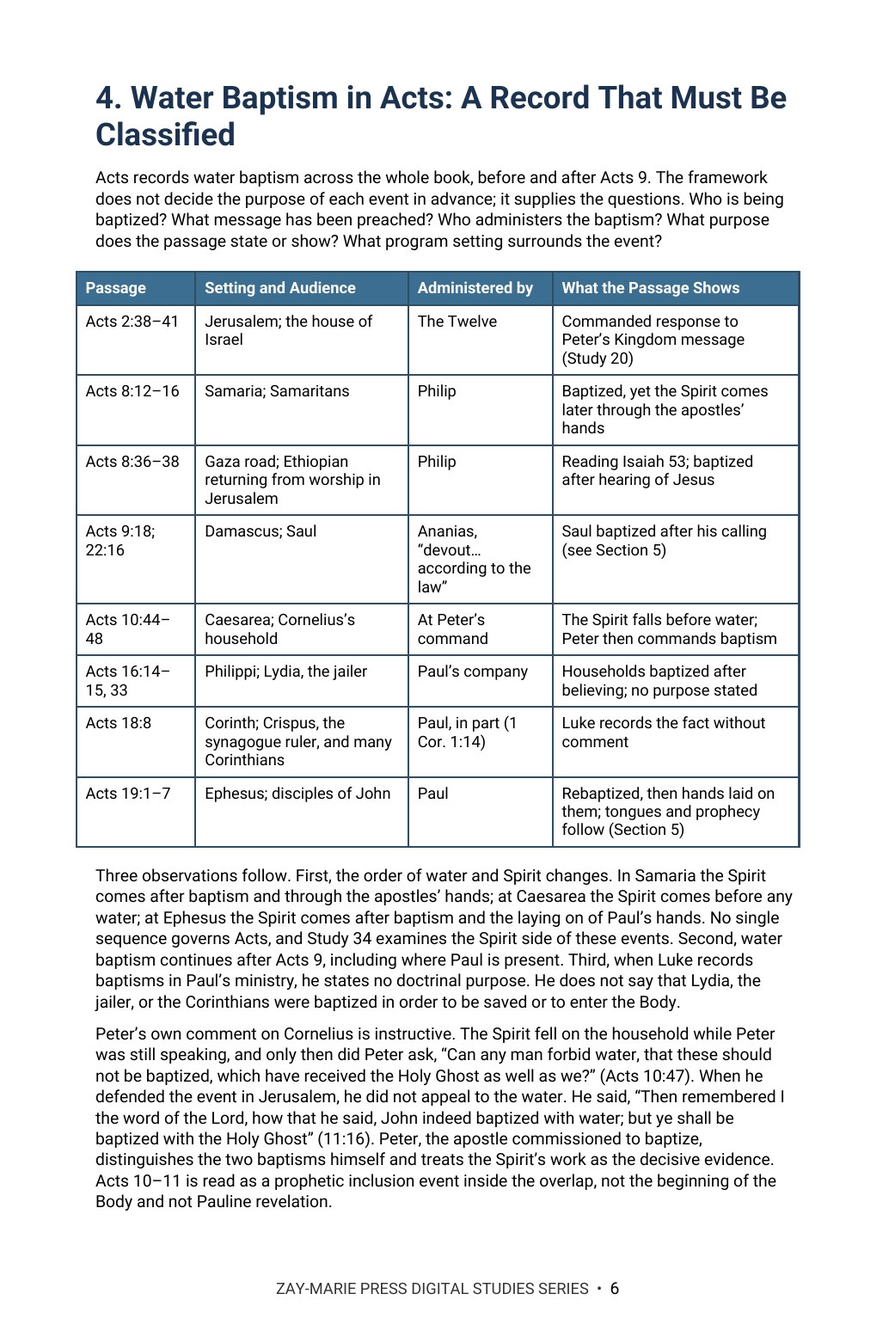
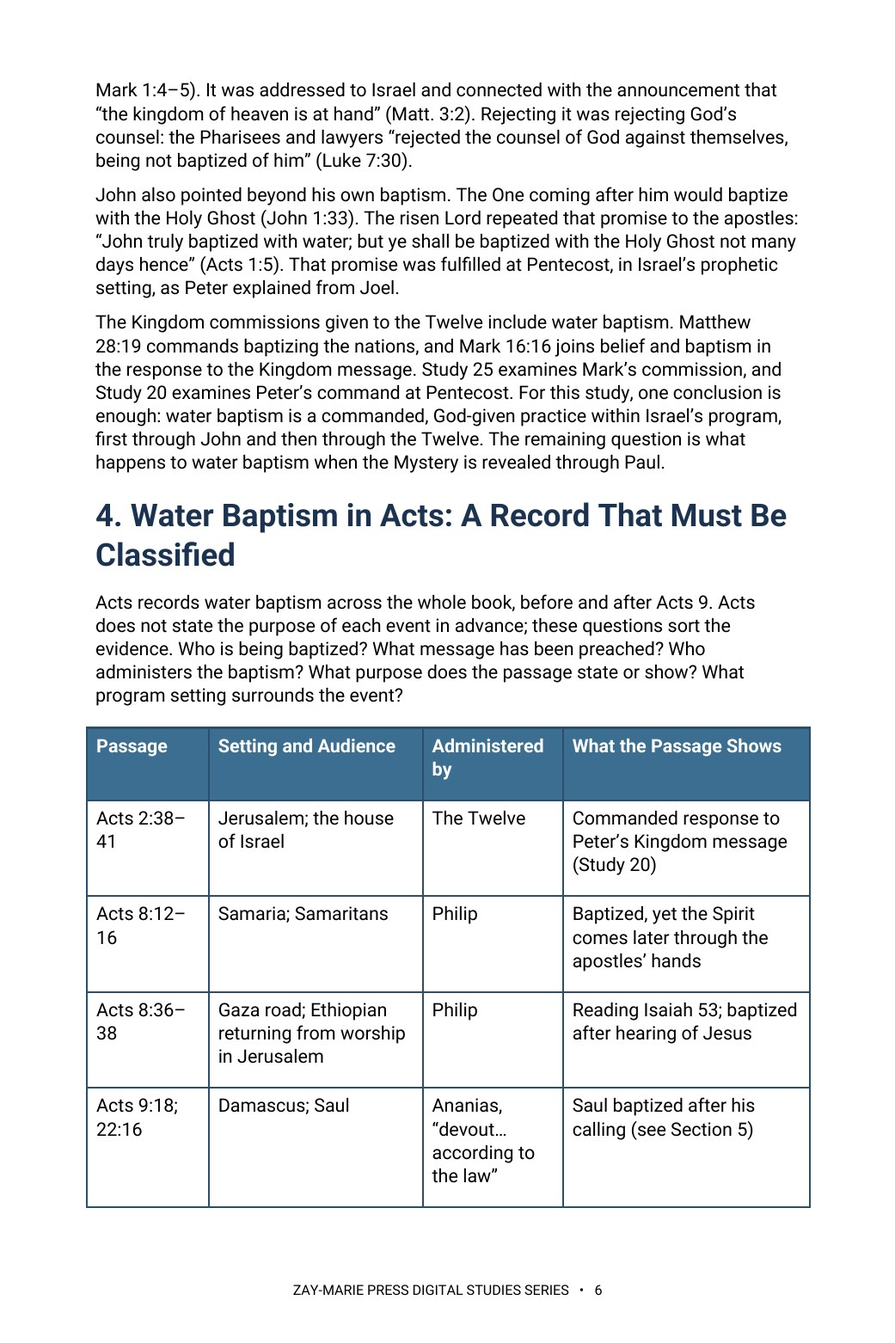
Study 42: rebuild in Roboto at 10 pt (17 pages), Rules 8/11/18, previews 2/3/6; trackers v1.74/v1.168
Claude-Session: https://claude.ai/code/session_01KcENxFzE91mCRyTPWhcwnE

Changed region(s): [[0.0615, 0.0615, 0.9222, 0.9219], [0.3074, 0.9526, 0.6763, 0.9834]]

diff --git a/study-42-one-baptism.html b/study-42-one-baptism.html
@@ -1,5 +1,5 @@
 <!doctype html>
 <html lang="en"><head><meta charset="utf-8"><meta name="viewport" content="width=device-width,initial-scale=1"><title>One Baptism | Zay-Marie Press</title><meta name="description" content="What is the one baptism of Ephesians 4:5? Define baptism from Scripture, classify every water baptism in Acts, and trace Paul’s teaching on Spirit baptism into the one Body. Preview Study 42 from Zay-Marie Press."><link rel="stylesheet" href="styles.css?v=20260921-4"><link rel="icon" type="image/png" href="assets/zay-marie-press-favicon.png"><style>
 .study-detail-page{background:#fff;color:#252525}.detail-hero{background:linear-gradient(135deg,#f8f5ec,#e3ece2);padding:58px 0}.detail-hero-grid{display:grid;grid-template-columns:minmax(250px,.72fr) minmax(0,1.28fr);gap:58px;align-items:center}.detail-cover{max-width:390px;margin:auto}.detail-cover img{display:block;width:100%;height:auto;box-shadow:0 14px 36px rgba(8,45,69,.18)}.detail-hero h1{font-size:clamp(2.7rem,5vw,4.7rem);line-height:1.02;margin:8px 0 10px;color:#143823}.detail-subtitle{font-family:Georgia,serif;font-size:1.35rem;font-weight:700;color:#082d45;margin:0 0 7px}.detail-kicker{font-family:Georgia,serif;font-style:italic;font-size:1.05rem;color:#4a4a44;margin:0 0 22px}.detail-copy{font-size:1.08rem;line-height:1.65;max-width:760px}.detail-buyline{display:flex;align-items:center;gap:18px;flex-wrap:wrap;margin-top:25px}.detail-price{font-family:Georgia,serif;font-size:2rem;font-weight:700;color:#143823}.detail-format,.preview-card .page-no{font-family:Arial,sans-serif;font-size:.76rem;font-weight:700;letter-spacing:.1em;text-transform:uppercase;color:#176b3a}.detail-button{display:inline-block;background:#176b3a;color:#fff;padding:13px 22px;font-family:Arial,sans-serif;font-size:.8rem;font-weight:700;letter-spacing:.07em;text-transform:uppercase}.detail-button.pending{opacity:.72;cursor:default}.detail-section{padding:66px 0}.detail-section.soft{background:#f6f7f2}.detail-section.cream{background:#faf8f2}.detail-section h2{color:#143823;margin:6px 0 18px;font-size:clamp(2rem,3.4vw,3rem)}.detail-section .lead{max-width:920px;font-size:1.1rem;line-height:1.62}.study-distinction{max-width:920px;margin-top:28px;margin-bottom:28px;padding:26px 28px;background:#fff;border:1px solid #d8d1bf;border-left:4px solid #b8871c}.study-distinction h3{margin:0 0 10px;color:#143823}.study-distinction p{margin:0 0 14px;line-height:1.62}.study-distinction a{font-family:Arial,sans-serif;font-weight:700;color:#176b3a;text-decoration:none}.study-points{display:grid;grid-template-columns:repeat(3,1fr);gap:18px;margin-top:28px;margin-bottom:28px}.study-point,.scripture-card,.preview-card,.include-item{background:#fff;border:1px solid var(--line);text-align:left}.study-point{border-top:3px solid #176b3a;padding:22px}.study-point h3{color:#143823;margin:0 0 8px;font-size:1.2rem}.study-point p,.scripture-card p,.preview-card p,.include-item p{margin:0;line-height:1.55}.scripture-grid{display:grid;grid-template-columns:repeat(4,1fr);gap:14px;margin-top:24px;margin-bottom:24px}.scripture-card{padding:22px 20px;color:#143823}.scripture-card h3{margin:0 0 9px;font-family:Georgia,serif;font-size:1rem;line-height:1.35}.scripture-card p{font-size:.94rem;color:#45453f}.excerpt{max-width:900px;margin:28px auto;border-left:4px solid #b8871c;padding:10px 0 10px 28px}.excerpt blockquote{font-family:Georgia,serif;font-size:clamp(1.45rem,2.5vw,2rem);line-height:1.45;color:#143823;margin:0 0 16px}.excerpt p{line-height:1.6;margin:0}.preview-grid{display:grid;grid-template-columns:repeat(2,1fr);gap:20px;margin-top:28px;margin-bottom:28px}.preview-card{padding:18px;min-height:210px;box-shadow:0 7px 20px rgba(20,40,25,.05)}.preview-image-link{display:block;margin:0 0 18px}.preview-image-link img{display:block;width:100%;height:auto;border:1px solid #d8d1bf;box-shadow:0 8px 22px rgba(20,40,25,.1);transition:transform .18s ease,box-shadow .18s ease}.preview-image-link:hover img{transform:translateY(-2px);box-shadow:0 11px 28px rgba(20,40,25,.16)}.preview-card h3{color:#143823;margin:8px 0 10px}.preview-instruction{margin:10px 0 0;font-family:Arial,sans-serif;font-size:.78rem;letter-spacing:.04em;color:#5b5b55}.includes-grid{display:grid;grid-template-columns:repeat(4,1fr);gap:14px;margin-top:26px}.include-item{padding:22px 20px;color:#143823}.include-item h3{margin:0 0 9px;font-family:Arial,sans-serif;font-size:.86rem;line-height:1.35;letter-spacing:.02em}.include-item p{font-size:.94rem;color:#45453f}.final-buy{background:#082d45;color:#fff;border-top:4px solid #b8871c;padding:42px 48px;display:grid;grid-template-columns:1fr auto;gap:36px;align-items:center}.final-buy .eyebrow,.final-buy h2,.final-buy .detail-price{color:#fff}.final-buy h2{margin:7px 0 6px}.final-buy p{margin:0}.final-offer{text-align:center}.back-link{display:inline-block;margin-top:18px;color:#143823;font-family:Arial,sans-serif;font-weight:700;text-decoration:none}.preview-lightbox{position:fixed;inset:0;z-index:10000;display:none;align-items:flex-start;justify-content:center;background:rgba(8,22,16,.88);padding:24px;overflow:auto}.preview-lightbox.open{display:flex}.preview-lightbox img{display:block;width:auto;height:auto;max-width:none;box-shadow:0 18px 55px rgba(0,0,0,.4);background:#fff}.preview-lightbox-close{position:fixed;top:18px;right:24px;z-index:10001;width:46px;height:46px;border:1px solid rgba(255,255,255,.65);border-radius:50%;background:rgba(0,0,0,.55);color:#fff;font:32px/1 Arial,sans-serif;cursor:pointer}@media(max-width:900px){.detail-hero-grid{grid-template-columns:1fr;gap:34px}.detail-cover{max-width:330px}.study-points{grid-template-columns:repeat(2,1fr)}.scripture-grid,.includes-grid{grid-template-columns:repeat(2,1fr)}.preview-grid,.final-buy{grid-template-columns:1fr}.final-offer{text-align:left}}@media(max-width:560px){.detail-hero{padding:42px 0}.detail-section{padding:50px 0}.study-points,.scripture-grid,.includes-grid{grid-template-columns:1fr}.final-buy{padding:32px 24px}.detail-buyline{align-items:flex-start;flex-direction:column;gap:8px}.preview-lightbox{padding:58px 10px 24px}.preview-lightbox img{width:100%;max-width:100%;height:auto}} .detail-hero h1{font-size:clamp(2.1rem,4.2vw,3.7rem);line-height:1.08}</style></head><body class="study-detail-page">
-<header class="site-header"><div class="wrap nav"><a class="logo" href="index.html" aria-label="Zay-Marie Press home"><img src="assets/zay-marie-press-logo-hq.png" alt="Zay-Marie Press" width="420" height="238"></a><button class="menu-toggle" type="button" aria-expanded="false" aria-controls="primary-nav">MENU</button><nav aria-label="Primary navigation" class="primary-nav" id="primary-nav"><a href="index.html">HOME</a><a href="books.html">BOOKS</a><a href="series.html">SERIES</a><a class="active" aria-current="page" href="digital-studies.html">DIGITAL STUDIES</a><a href="biblical-hermeneutics-course.html">COURSE</a><a href="about.html">ABOUT</a><a href="resources.html">RESOURCES</a><a href="contact.html">CONTACT</a></nav></div></header><main><section class="detail-hero"><div class="wrap detail-hero-grid"><div class="detail-cover"><picture><source srcset="assets/study-42-cover.webp" type="image/webp"><img src="assets/study-42-cover.jpg" alt="One Baptism — Study 42 cover"></picture></div><div><div class="eyebrow">STUDY 42 · DIGITAL STUDY</div><h1>One Baptism</h1><p class="detail-subtitle">Water Baptism, Spirit Baptism, and the Body of Christ</p><p class="detail-kicker">A Biblical Examination of Baptism’s Meaning, the Water Baptisms in Acts, and the Baptism Paul Teaches the Body</p><p class="detail-copy">Paul writes that there is “one baptism.” Yet Scripture records John’s baptism, the baptism commanded by the Twelve, baptisms during Paul’s own ministry, a baptism by one Spirit into one body, and a baptism unto Moses in which no one got wet.</p><p class="detail-copy">This study defines baptism from Scripture, classifies every water baptism recorded in Acts, and follows Paul’s own teaching to the one baptism that places every believer into the Body of Christ.</p><div class="detail-buyline"><span class="detail-price">$5.99</span><span class="detail-format">Digital PDF · 16 Pages</span><span class="detail-button pending" aria-disabled="true">Checkout Coming Soon</span></div></div></div></section><section class="detail-section"><div class="wrap"><div class="eyebrow">ABOUT THIS STUDY</div><h2>Many Baptisms, One Baptism</h2><p class="lead">Baptism in Scripture means identification, and the element varies: water, the Spirit, suffering, even a cloud and a sea. Reading each baptism by its agent, element, and result removes most of the contradictions readers find when every use of the word is assumed to mean the same act.</p><p class="lead">Water baptism belongs to Israel’s program, from priestly washing to John’s baptism and the commission of the Twelve, and it continues throughout Acts. Paul baptized a few people during the overlap, yet wrote that Christ “sent me not to baptize.” In his letters, the Body’s baptism is the Spirit’s work of placing every believer into Christ.</p><p class="lead">This is not a study of Peter’s Pentecost command in isolation, which Study 20 reads in its own audience and setting, nor of Mark 16’s sign commission joining belief and baptism, which Study 25 examines on its own terms, nor of the Spirit’s repeated fillings in Acts, which Study 34 distinguishes from a once-for-all baptism. Its task is broader: to classify every baptism Scripture names — by agent, element, and result — and to identify which one alone places a believer into the Body.</p><div class="study-distinction"><h3>How These Studies Relate</h3><p>Study 42 defines baptism from Scripture and identifies from Paul’s letters the one baptism that places believers into the Body of Christ.</p><p><a href="study-20-understanding-acts-2-38.html">Study 20 — Understanding Acts 2:38</a> Read Peter’s Pentecost command to Israel in detail; this study classifies it among the many baptisms Scripture describes.</p><p><a href="study-25-the-signs-that-followed.html">Study 25 — The Signs That Followed</a> Examine the Kingdom commission that joins belief and baptism in Mark 16, which this study distinguishes from Paul’s commission.</p><p><a href="study-34-filled-again.html">Study 34 — Filled Again</a> Follow the Spirit’s fillings in Acts, which this study distinguishes from the Spirit’s once-for-all baptism into the one Body.</p><p class="connection-guide-link"><a href="study-connections.html#study-42">Explore the full connection guide for Study 42 →</a></p></div></div></section><section class="detail-section soft"><div class="wrap"><div class="eyebrow">WHAT YOU’LL STUDY</div><h2>Let Each Baptism Be Read on Its Own Terms</h2><div class="study-points"><div class="study-point"><h3>What “Baptize” Means</h3><p>See why baptism means identification, including baptisms in which no water touches anyone.</p></div><div class="study-point"><h3>Water in Israel’s Program</h3><p>Trace priestly washing, the prophets’ promised cleansing, and John’s stated purpose for his baptism.</p></div><div class="study-point"><h3>Every Baptism in Acts</h3><p>Classify each recorded water baptism by audience, administrator, order, and stated purpose.</p></div><div class="study-point"><h3>The Difficult Texts</h3><p>Work through Acts 22:16, Acts 19:1–7, and Peter’s own comment on Cornelius in Acts 11:16.</p></div><div class="study-point"><h3>Not Sent to Baptize</h3><p>Read 1 Corinthians 1:13–17, and see why Paul baptized a few during the overlap without making it part of his commission.</p></div><div class="study-point"><h3>The One Baptism</h3><p>Follow 1 Corinthians 12:13, Galatians 3:27, Romans 6, and Colossians 2 to Ephesians 4:5.</p></div></div></div></section><section class="detail-section cream"><div class="wrap"><div class="eyebrow">KEY SCRIPTURES</div><h2>Examine the Passages for Yourself</h2><div class="scripture-grid"><div class="scripture-card"><h3>1 Corinthians 10:1–2</h3><p>Israel was baptized unto Moses in the cloud and in the sea while crossing on dry ground.</p></div><div class="scripture-card"><h3>John 1:31</h3><p>John baptized with water so that Messiah would be made manifest to Israel.</p></div><div class="scripture-card"><h3>Acts 11:16</h3><p>Peter remembers that John baptized with water, but they would be baptized with the Holy Ghost.</p></div><div class="scripture-card"><h3>Acts 22:16</h3><p>Ananias’s instruction at Paul’s calling, read in its own setting.</p></div><div class="scripture-card"><h3>1 Corinthians 1:17</h3><p>“Christ sent me not to baptize, but to preach the gospel.”</p></div><div class="scripture-card"><h3>1 Corinthians 12:13</h3><p>By one Spirit every believer is baptized into one body.</p></div><div class="scripture-card"><h3>Romans 6:3–4; Colossians 2:11–12</h3><p>Buried and raised with Christ through the operation of God, with a circumcision made without hands.</p></div><div class="scripture-card"><h3>Ephesians 4:4–6</h3><p>One body, one Spirit, one Lord, one faith, one baptism.</p></div></div></div></section><section class="detail-section"><div class="wrap"><div class="eyebrow">FROM THE STUDY</div><h2>The Baptism That Makes the Body One</h2><div class="excerpt"><blockquote>“Paul does not write ‘one water baptism and one Spirit baptism.’ He writes ‘one baptism.’”</blockquote><p>Water baptism was commanded in Israel’s program and continued throughout Acts. The baptism Paul names among the unities of the Body is the one that makes the Body one: the Spirit’s placement of every believer into Christ.</p></div></div></section><section class="detail-section soft"><div class="wrap"><div class="eyebrow">A LOOK INSIDE</div><h2>Preview the Study Before You Purchase</h2><p class="preview-instruction">Click any page to enlarge it for reading.</p><div class="preview-grid"><div class="preview-card"><a class="preview-image-link" data-preview-lightbox href="assets/study-42-page-2.jpg"><img src="assets/study-42-page-2.jpg" alt="Study 42 page 2: table of contents"></a><div class="page-no">Page 2</div><h3>Table of Contents</h3><p>See the study’s full structure and scope at a glance.</p></div><div class="preview-card"><a class="preview-image-link" data-preview-lightbox href="assets/study-42-page-3.jpg"><img src="assets/study-42-page-3.jpg" alt="Study 42 page 3: what you will learn, study goal, and study outline"></a><div class="page-no">Page 3</div><h3>What You Will Learn</h3><p>See the study’s goal, outline, and the question it sets out to answer.</p></div><div class="preview-card"><a class="preview-image-link" data-preview-lightbox href="assets/study-42-page-6.jpg"><img src="assets/study-42-page-6.jpg" alt="Study 42 page 6: water baptism in Acts, with the table that classifies each recorded baptism"></a><div class="page-no">Page 6</div><h3>Water Baptism in Acts</h3><p>See how the study classifies each recorded water baptism by setting, audience, and administrator.</p></div></div></div></section><section class="detail-section"><div class="wrap"><div class="eyebrow">WHAT’S INCLUDED</div><h2>A Focused Study Built for<br>Understanding and Teaching</h2><div class="includes-grid"><div class="include-item"><h3>16-Page In-Depth Biblical Study</h3><p>A careful study of baptism in Scripture and the one baptism of the Body.</p></div><div class="include-item"><h3>11 Core Teaching Sections</h3><p>Progress from the word’s meaning through Israel, Acts, and Paul’s letters.</p></div><div class="include-item"><h3>Five Reference Tables</h3><p>Compare the baptisms of Scripture, classify every water baptism in Acts, and read key passages side by side in the KJV.</p></div><div class="include-item"><h3>Four Worked Tests</h3><p>Test four common claims about baptism, including baptism as a commanded public testimony.</p></div><div class="include-item"><h3>14 Review Questions</h3><p>Test the study’s distinctions concerning agent, element, audience, and program.</p></div><div class="include-item"><h3>Teaching Outline</h3><p>A ready framework for teaching the doctrine of baptism with precision.</p></div><div class="include-item"><h3>Guided Further Study</h3><p>Return to Israel’s washings, John’s baptism, Acts, and Paul’s letters with directed questions.</p></div><div class="include-item"><h3>Final Synthesis Exercise</h3><p>Bring the evidence together in one concise, Scripture-based explanation.</p></div></div></div></section><section class="detail-section cream"><div class="wrap"><div class="final-buy"><div><div class="eyebrow">STUDY 42 · DIGITAL STUDY</div><h2>One Baptism</h2><p>16-page digital PDF · For personal use</p></div><div class="final-offer"><div class="detail-price">$5.99</div><span class="detail-button pending" aria-disabled="true">Checkout Coming Soon</span></div></div><a class="back-link" href="digital-studies.html">← Back to All Digital Studies</a></div></section><section class="study-method-course-bridge"><div class="wrap"><div class="study-method-course-panel"><div><div class="eyebrow">BUILD THE INTERPRETIVE METHOD</div><h2>Want More Than a Focused Study?</h2><p>Digital Studies examine particular biblical subjects and difficult passages. The 40-lesson Biblical Hermeneutics course teaches a complete, repeatable method for establishing meaning in context, determining proper assignment, and making responsible application.</p></div><a class="btn btn-primary" href="biblical-hermeneutics-course.html">BIBLICAL HERMENEUTICS COURSE</a></div></div></section></main>
+<header class="site-header"><div class="wrap nav"><a class="logo" href="index.html" aria-label="Zay-Marie Press home"><img src="assets/zay-marie-press-logo-hq.png" alt="Zay-Marie Press" width="420" height="238"></a><button class="menu-toggle" type="button" aria-expanded="false" aria-controls="primary-nav">MENU</button><nav aria-label="Primary navigation" class="primary-nav" id="primary-nav"><a href="index.html">HOME</a><a href="books.html">BOOKS</a><a href="series.html">SERIES</a><a class="active" aria-current="page" href="digital-studies.html">DIGITAL STUDIES</a><a href="biblical-hermeneutics-course.html">COURSE</a><a href="about.html">ABOUT</a><a href="resources.html">RESOURCES</a><a href="contact.html">CONTACT</a></nav></div></header><main><section class="detail-hero"><div class="wrap detail-hero-grid"><div class="detail-cover"><picture><source srcset="assets/study-42-cover.webp" type="image/webp"><img src="assets/study-42-cover.jpg" alt="One Baptism — Study 42 cover"></picture></div><div><div class="eyebrow">STUDY 42 · DIGITAL STUDY</div><h1>One Baptism</h1><p class="detail-subtitle">Water Baptism, Spirit Baptism, and the Body of Christ</p><p class="detail-kicker">A Biblical Examination of Baptism’s Meaning, the Water Baptisms in Acts, and the Baptism Paul Teaches the Body</p><p class="detail-copy">Paul writes that there is “one baptism.” Yet Scripture records John’s baptism, the baptism commanded by the Twelve, baptisms during Paul’s own ministry, a baptism by one Spirit into one body, and a baptism unto Moses in which no one got wet.</p><p class="detail-copy">This study defines baptism from Scripture, classifies every water baptism recorded in Acts, and follows Paul’s own teaching to the one baptism that places every believer into the Body of Christ.</p><div class="detail-buyline"><span class="detail-price">$5.99</span><span class="detail-format">Digital PDF · 17 Pages</span><span class="detail-button pending" aria-disabled="true">Checkout Coming Soon</span></div></div></div></section><section class="detail-section"><div class="wrap"><div class="eyebrow">ABOUT THIS STUDY</div><h2>Many Baptisms, One Baptism</h2><p class="lead">Baptism in Scripture means identification, and the element varies: water, the Spirit, suffering, even a cloud and a sea. Reading each baptism by its agent, element, and result removes most of the contradictions readers find when every use of the word is assumed to mean the same act.</p><p class="lead">Water baptism belongs to Israel’s program, from priestly washing to John’s baptism and the commission of the Twelve, and it continues throughout Acts. Paul baptized a few people during the overlap, yet wrote that Christ “sent me not to baptize.” In his letters, the Body’s baptism is the Spirit’s work of placing every believer into Christ.</p><p class="lead">This is not a study of Peter’s Pentecost command in isolation, which Study 20 reads in its own audience and setting, nor of Mark 16’s sign commission joining belief and baptism, which Study 25 examines on its own terms, nor of the Spirit’s repeated fillings in Acts, which Study 34 distinguishes from a once-for-all baptism. Its task is broader: to classify every baptism Scripture names — by agent, element, and result — and to identify which one alone places a believer into the Body.</p><div class="study-distinction"><h3>How These Studies Relate</h3><p>Study 42 defines baptism from Scripture and identifies from Paul’s letters the one baptism that places believers into the Body of Christ.</p><p><a href="study-20-understanding-acts-2-38.html">Study 20 — Understanding Acts 2:38</a> Read Peter’s Pentecost command to Israel in detail; this study classifies it among the many baptisms Scripture describes.</p><p><a href="study-25-the-signs-that-followed.html">Study 25 — The Signs That Followed</a> Examine the Kingdom commission that joins belief and baptism in Mark 16, which this study distinguishes from Paul’s commission.</p><p><a href="study-34-filled-again.html">Study 34 — Filled Again</a> Follow the Spirit’s fillings in Acts, which this study distinguishes from the Spirit’s once-for-all baptism into the one Body.</p><p class="connection-guide-link"><a href="study-connections.html#study-42">Explore the full connection guide for Study 42 →</a></p></div></div></section><section class="detail-section soft"><div class="wrap"><div class="eyebrow">WHAT YOU’LL STUDY</div><h2>Let Each Baptism Be Read on Its Own Terms</h2><div class="study-points"><div class="study-point"><h3>What “Baptize” Means</h3><p>See why baptism means identification, including baptisms in which no water touches anyone.</p></div><div class="study-point"><h3>Water in Israel’s Program</h3><p>Trace priestly washing, the prophets’ promised cleansing, and John’s stated purpose for his baptism.</p></div><div class="study-point"><h3>Every Baptism in Acts</h3><p>Classify each recorded water baptism by audience, administrator, order, and stated purpose.</p></div><div class="study-point"><h3>The Difficult Texts</h3><p>Work through Acts 22:16, Acts 19:1–7, and Peter’s own comment on Cornelius in Acts 11:16.</p></div><div class="study-point"><h3>Not Sent to Baptize</h3><p>Read 1 Corinthians 1:13–17, and see why Paul baptized a few during the overlap without making it part of his commission.</p></div><div class="study-point"><h3>The One Baptism</h3><p>Follow 1 Corinthians 12:13, Galatians 3:27, Romans 6, and Colossians 2 to Ephesians 4:5.</p></div></div></div></section><section class="detail-section cream"><div class="wrap"><div class="eyebrow">KEY SCRIPTURES</div><h2>Examine the Passages for Yourself</h2><div class="scripture-grid"><div class="scripture-card"><h3>1 Corinthians 10:1–2</h3><p>Israel was baptized unto Moses in the cloud and in the sea while crossing on dry ground.</p></div><div class="scripture-card"><h3>John 1:31</h3><p>John baptized with water so that Messiah would be made manifest to Israel.</p></div><div class="scripture-card"><h3>Acts 11:16</h3><p>Peter remembers that John baptized with water, but they would be baptized with the Holy Ghost.</p></div><div class="scripture-card"><h3>Acts 22:16</h3><p>Ananias’s instruction at Paul’s calling, read in its own setting.</p></div><div class="scripture-card"><h3>1 Corinthians 1:17</h3><p>“Christ sent me not to baptize, but to preach the gospel.”</p></div><div class="scripture-card"><h3>1 Corinthians 12:13</h3><p>By one Spirit every believer is baptized into one body.</p></div><div class="scripture-card"><h3>Romans 6:3–4; Colossians 2:11–12</h3><p>Buried and raised with Christ through the operation of God, with a circumcision made without hands.</p></div><div class="scripture-card"><h3>Ephesians 4:4–6</h3><p>One body, one Spirit, one Lord, one faith, one baptism.</p></div></div></div></section><section class="detail-section"><div class="wrap"><div class="eyebrow">FROM THE STUDY</div><h2>The Baptism That Makes the Body One</h2><div class="excerpt"><blockquote>“Paul does not write ‘one water baptism and one Spirit baptism.’ He writes ‘one baptism.’”</blockquote><p>Water baptism was commanded in Israel’s program and continued throughout Acts. The baptism Paul names among the unities of the Body is the one that makes the Body one: the Spirit’s placement of every believer into Christ.</p></div></div></section><section class="detail-section soft"><div class="wrap"><div class="eyebrow">A LOOK INSIDE</div><h2>Preview the Study Before You Purchase</h2><p class="preview-instruction">Click any page to enlarge it for reading.</p><div class="preview-grid"><div class="preview-card"><a class="preview-image-link" data-preview-lightbox href="assets/study-42-page-2.jpg"><img src="assets/study-42-page-2.jpg" alt="Study 42 page 2: table of contents"></a><div class="page-no">Page 2</div><h3>Table of Contents</h3><p>See the study’s full structure and scope at a glance.</p></div><div class="preview-card"><a class="preview-image-link" data-preview-lightbox href="assets/study-42-page-3.jpg"><img src="assets/study-42-page-3.jpg" alt="Study 42 page 3: what you will learn, study goal, and study outline"></a><div class="page-no">Page 3</div><h3>What You Will Learn</h3><p>See the study’s goal, outline, and the question it sets out to answer.</p></div><div class="preview-card"><a class="preview-image-link" data-preview-lightbox href="assets/study-42-page-6.jpg"><img src="assets/study-42-page-6.jpg" alt="Study 42 page 6: water baptism in Acts, with the table that classifies each recorded baptism"></a><div class="page-no">Page 6</div><h3>Water Baptism in Acts</h3><p>See how the study classifies each recorded water baptism by setting, audience, and administrator.</p></div></div></div></section><section class="detail-section"><div class="wrap"><div class="eyebrow">WHAT’S INCLUDED</div><h2>A Focused Study Built for<br>Understanding and Teaching</h2><div class="includes-grid"><div class="include-item"><h3>16-Page In-Depth Biblical Study</h3><p>A careful study of baptism in Scripture and the one baptism of the Body.</p></div><div class="include-item"><h3>11 Core Teaching Sections</h3><p>Progress from the word’s meaning through Israel, Acts, and Paul’s letters.</p></div><div class="include-item"><h3>Five Reference Tables</h3><p>Compare the baptisms of Scripture, classify every water baptism in Acts, and read key passages side by side in the KJV.</p></div><div class="include-item"><h3>Four Worked Tests</h3><p>Test four common claims about baptism, including baptism as a commanded public testimony.</p></div><div class="include-item"><h3>14 Review Questions</h3><p>Test the study’s distinctions concerning agent, element, audience, and program.</p></div><div class="include-item"><h3>Teaching Outline</h3><p>A ready framework for teaching the doctrine of baptism with precision.</p></div><div class="include-item"><h3>Guided Further Study</h3><p>Return to Israel’s washings, John’s baptism, Acts, and Paul’s letters with directed questions.</p></div><div class="include-item"><h3>Final Synthesis Exercise</h3><p>Bring the evidence together in one concise, Scripture-based explanation.</p></div></div></div></section><section class="detail-section cream"><div class="wrap"><div class="final-buy"><div><div class="eyebrow">STUDY 42 · DIGITAL STUDY</div><h2>One Baptism</h2><p>17-page digital PDF · For personal use</p></div><div class="final-offer"><div class="detail-price">$5.99</div><span class="detail-button pending" aria-disabled="true">Checkout Coming Soon</span></div></div><a class="back-link" href="digital-studies.html">← Back to All Digital Studies</a></div></section><section class="study-method-course-bridge"><div class="wrap"><div class="study-method-course-panel"><div><div class="eyebrow">BUILD THE INTERPRETIVE METHOD</div><h2>Want More Than a Focused Study?</h2><p>Digital Studies examine particular biblical subjects and difficult passages. The 40-lesson Biblical Hermeneutics course teaches a complete, repeatable method for establishing meaning in context, determining proper assignment, and making responsible application.</p></div><a class="btn btn-primary" href="biblical-hermeneutics-course.html">BIBLICAL HERMENEUTICS COURSE</a></div></div></section></main>
 <div class="preview-lightbox" id="preview-lightbox" role="dialog" aria-modal="true" aria-label="Expanded study preview"><button class="preview-lightbox-close" type="button" aria-label="Close preview">×</button><img id="preview-lightbox-image" alt=""></div><footer class="site-footer"><div class="wrap footer-grid"><div class="footer-about"><h3>Zay-Marie Press</h3><p class="footer-tagline"><em>Where the Bible Means What It Says.</em></p><p>Zay-Marie Press is a Christian theological publisher dedicated to producing doctrinally precise, carefully structured biblical resources that equip pastors, teachers, and serious students with clarity, depth, and Scripture-anchored truth.</p><p><a href="https://zaymariepress.com">zaymariepress.com</a><br><a href="mailto:info@zaymariepress.com">info@zaymariepress.com</a></p></div><div class="footer-column"><h3>Explore</h3><div class="footer-links-stacked"><a href="books.html">Books</a><br><a href="series.html">Series</a><br><a href="biblical-hermeneutics-course.html">Course</a><br><a href="digital-studies.html">Digital Studies</a><br><a href="resources.html">Resources</a><br><a href="bible-book-summaries.html">Bible Book Summaries</a><br><a href="doctrinal-packets.html">Doctrinal Packets</a><br><a href="historical-drift.html">Historical Drift</a><br><a href="about.html">About</a><br><a href="contact.html">Contact</a></div></div><div class="footer-column"><h3>Reader Support</h3><div class="footer-links-stacked"><a href="reader-support.html#faq">FAQ</a><br><a href="reader-support.html#shipping-returns">Shipping &amp; Returns</a><br><a href="reader-support.html#digital-downloads">Digital Downloads</a><br><a href="reader-support.html#contact-support">Contact Support</a></div></div><div class="footer-column"><h3>Acts Overlap</h3><p><strong>Acts Overlap Theology Series</strong></p><p><em>Two Distinct Streams. One Overlap.</em></p><p><a href="series.html">Series Overview</a></p></div></div><div class="wrap footer-bottom">© 2026 Zay-Marie Press. All rights reserved.</div></footer><script src="site.js"></script><script>const lightbox=document.getElementById('preview-lightbox'),lightboxImage=document.getElementById('preview-lightbox-image'),closeLightbox=()=>{lightbox.classList.remove('open');lightboxImage.src='';};document.querySelectorAll('[data-preview-lightbox]').forEach(link=>link.addEventListener('click',event=>{event.preventDefault();lightboxImage.src=link.href;lightboxImage.alt=link.querySelector('img').alt;lightbox.classList.add('open');}));document.querySelector('.preview-lightbox-close').addEventListener('click',closeLightbox);lightbox.addEventListener('click',event=>{if(event.target===lightbox)closeLightbox();});document.addEventListener('keydown',event=>{if(event.key==='Escape')closeLightbox();});</script></body></html>

diff --git a/site.js b/site.js
@@ -62,7 +62,7 @@ const resourceModal=document.querySelector('#resource-modal'), resourceModalTitl
 if(resourceModal&&resourceModalTriggers.length){const closeResourceModal=()=>{resourceModal.hidden=true;document.body.classList.remove('resource-modal-open');lastResourceTrigger?.focus();};resourceModalTriggers.forEach(trigger=>trigger.addEventListener('click',()=>{lastResourceTrigger=trigger;if(resourceModalTitle)resourceModalTitle.textContent=trigger.dataset.title||'Resource';if(resourceModalDescription)resourceModalDescription.textContent=trigger.dataset.description||'';if(resourceModalLink){resourceModalLink.href=trigger.dataset.href||'#';resourceModalLink.textContent=trigger.dataset.linkText||'OPEN RESOURCE';}resourceModal.hidden=false;document.body.classList.add('resource-modal-open');resourceModalClose?.focus();}));resourceModalClose?.addEventListener('click',closeResourceModal);resourceModal.addEventListener('click',e=>{if(e.target===resourceModal)closeResourceModal();});document.addEventListener('keydown',e=>{if(e.key==='Escape'&&!resourceModal.hidden)closeResourceModal();});}
 
 /* Display the verified final-PDF page count at the primary purchase decision point. */
-const digitalStudyPageCounts={1:17,2:19,3:16,4:18,5:16,6:16,7:14,8:13,9:16,10:20,11:15,12:15,13:19,14:15,15:15,16:16,17:18,18:18,19:16,20:16,21:17,22:16,23:14,24:16,25:17,26:16,27:16,28:16,29:19,30:17,31:18,32:19,33:18,34:16,35:16,36:16,37:16,38:16,39:16,40:16,41:16,42:16,43:17,44:16,45:16,46:20,47:16,48:16,49:17,50:16,51:16,52:19,53:19,54:17,55:20,56:20,57:20,58:19,59:20,60:15,61:16,62:16,63:16,64:16,65:16,66:16,67:16,68:16,69:16,70:16,71:16};
+const digitalStudyPageCounts={1:17,2:19,3:16,4:18,5:16,6:16,7:14,8:13,9:16,10:20,11:15,12:15,13:19,14:15,15:15,16:16,17:18,18:18,19:16,20:16,21:17,22:16,23:14,24:16,25:17,26:16,27:16,28:16,29:19,30:17,31:18,32:19,33:18,34:16,35:16,36:16,37:16,38:16,39:16,40:16,41:16,42:17,43:17,44:16,45:16,46:20,47:16,48:16,49:17,50:16,51:16,52:19,53:19,54:17,55:20,56:20,57:20,58:19,59:20,60:15,61:16,62:16,63:16,64:16,65:16,66:16,67:16,68:16,69:16,70:16,71:16};
 const digitalStudyMatch=window.location.pathname.match(/\/study-(\d+)-/i);
 const digitalStudyFormat=document.querySelector('.detail-hero .detail-format');
 if(digitalStudyMatch&&digitalStudyFormat){const studyNumber=Number(digitalStudyMatch[1]),pageCount=digitalStudyPageCounts[studyNumber];if(pageCount)digitalStudyFormat.textContent=`Digital PDF · ${pageCount} Pages`;}

diff --git a/CLAUDE.md b/CLAUDE.md
@@ -23,7 +23,7 @@ These are kept in the repo at `controlling-documents/` and are the current versi
 - As of v1.50 (publisher directive, 2026-10-03), the **What You Will Learn in This Study** section is always bulleted, never set as running paragraphs, written into this file in the same pass (Master Standard Section 3 item 4, Section 6 structure line, Section 22): a list of bullet points, each describing one process, textual marker or interpretive discipline the reader will practice (Section 17 still governs what they may say); at most one short lead-in line may stand above the bullets (for example, “By the end of this study, you should be able to:”); the Study Goal callout and the Study Outline keep their own forms. It governs every new study and every study rebuilt or retrofitted from now on; earlier studies take it when reopened or when the publisher directs. In every study check (Step 1), report whether the section is bulleted. First applied to Study 43.
 **`controlling-documents/Digital_Studies_Relationship_Map_v1.39.md`** — records each study's distinct subject, its related studies, the eight priced six-study collections, the Paul's Missionary Journeys cross-reference map, and the five primary catalog categories (currently version 1.39, covers Studies 1–71; update it as new studies publish, bump the version number, rename the file to match, and log the change in its own version-history table — mirroring the Master Standard's `_vX.Y` filename convention). Check a proposed topic against it before recommending or writing a new study. (2026-09-28: the file was missing from this repo despite this note referencing it; replaced from the publisher's copy and bumped v1.15→v1.25 in the same pass. If this note ever again points to a version not present under `controlling-documents/`, ask the publisher for a copy rather than proceeding without the check.)
 - **`controlling-documents/Digital_Studies_Category_Standard_v1.1.md`** — FINAL and binding (publisher, 2026-10-01): the rules for the five primary catalog categories (Foundations, Israel & Prophecy, Body of Christ, Passages, Doctrinal Themes), the ordered decision procedure for new studies, the precedents, all 71 fixed assignments, and the cover-label form for each category. Read it before placing any card or cover label. Do not ask the publisher where a study belongs; apply the procedure and state the result. Only the publisher changes a ruling; then bump this Standard's version and filename, re-letter the cover, and update the Relationship Map.
-- **`controlling-documents/Doctrinal_Upgrade_Retrofit_Plan_v1.73.md`** — working tracker for retrofitting Studies 1–59 to the 2026-10-02 doctrinal upgrade (Framework/PAM v1.1, Master Standard v1.40, Rules 7–17): withdrawn-wording search keys, impact tiers, waves and the per-study method. Read it before continuing the retrofit in any session; update status, bump the version and rename the file as work proceeds.
+- **`controlling-documents/Doctrinal_Upgrade_Retrofit_Plan_v1.74.md`** — working tracker for retrofitting Studies 1–59 to the 2026-10-02 doctrinal upgrade (Framework/PAM v1.1, Master Standard v1.40, Rules 7–17): withdrawn-wording search keys, impact tiers, waves and the per-study method. Read it before continuing the retrofit in any session; update status, bump the version and rename the file as work proceeds.
 - **`controlling-documents/Doctrinal_Packet_Standard_v0.3.md`** — Doctrinal Packet Standard (DRAFT; §7 approved). Governs the separate Doctrinal Packets product strand (5-page interpretive PDFs per Bible book — a print-friendly cover as page 1 plus 4 content pages, $2.99, KJV, pilot: Genesis, live at `packet-genesis.html`, hub `doctrinal-packets.html`; site pages say "5 Pages", cover styles live in `packets.css`, Old Testament blue and New Testament soft pale green, hub listed in Bible order). **Preview rule (publisher directive, 2026-09-29, packets only):** previews show about one page's worth in two cropped views (top of page 1 through the anchor texts; the chart section) — never the exegesis, architecture, Mystery contrast, logic chain, outline, or closing. Master Standard §16/§17 still govern Digital Studies. Bump the version and rename the file as the Standard is finalized.
 - **`controlling-documents/Preview_Page_Spoiler_Retrofit_Audit_v1.4.md`** — working tracker for the Studies 1–60 preview-page conclusion-spoiler retrofit (see the section below). Read it before continuing that audit in any session; update its status fields and changelog, bump the version, and rename the file to match as the audit proceeds — same `_vX.Y` convention as the other controlling documents. As of v1.1, the website-side half was DONE: all 60 studies' "What You'll Study" text was judged against the rule (methodology documented in the file) and 22 points across 11 studies were rewritten and pushed; an unrelated Study 22 content bug (Study 21's content had leaked into it) was also found and fixed. As of v1.2, the publisher supplied Studies 1–60's interior production PDFs and the interior-PDF half was also surveyed (read-only): 10 studies (37, 41, 45, 47, 48, 49, 51, 52, 53, 54) were found to have at least one interior "What You Will Learn" violation, 50 studies were confirmed compliant, and the orphaned `assets/study-45-sanctification-under-grace.docx` (removed from the repo per the publisher in v1.0) was confirmed word-for-word identical to Study 45's actual production interior PDF content. As of v1.3, the publisher supplied editable DOCX sources for all 10 violating studies; all 15 violating points were rewritten and approved, delivered as corrected final PDFs, and — along the way — a second defect was found and fixed (Studies 47 and 48's source DOCX still had an unintegrated cover placeholder despite both being long-published live with real covers; fixed by inserting the existing approved cover art). The website's "What You Will Learn" preview image (`study-NN-page-3.jpg`) was regenerated from the corrected content for all 10 studies and pushed to `main` (commit `cea1859`), verified against a fresh clone. **The website side of this audit is now fully compliant for all 60 studies.** Outstanding: the publisher's purchasable interior PDF files themselves have corrected versions delivered, but distribution to existing purchasers was decided by the publisher on 2026-09-29: silent swap of the files behind the existing downloads, no reissue notice (recorded in the v1.4 changelog entry; the product files are not in this repo).
 

diff --git a/controlling-documents/Doctrinal_Upgrade_Retrofit_Plan_v1.74.md b/controlling-documents/Doctrinal_Upgrade_Retrofit_Plan_v1.74.md
@@ -166,3 +166,4 @@ Working tracker for correcting published studies to the Framework/PAM v1.1, Mast
 - v1.71 (2026-10-03): Study 58 rebuilt at 10 pt (Roboto, current page) from the publisher’s older FINAL DOCX with the 2026-10-02 retrofit re-applied ("this framework" / "Acts Overlap framework" working terms removed in §6, §8 (twice) and the Study Summary; withdrawn "gathered into the Body" overlap sentence (§8) replaced by the standing overlap sentence; "and not a transfer" added to the Acts 28 wording in the Introduction, §8 (twice) and the Investigation; Colossians letter line added at the end of §4; generic "interpretive framework" / "prophetic framework of Acts 2" kept as plain English). 19 pages (was 16). `site.js` 58:19; page-count text 16→19 (hero, meta description, buy panel, What’s Included 15→18 interior); previews 2, 3 and 8 re-rendered at 1041×1562 (third moved from page 7 to 8: the Colossians stewardship section; `study-58-page-7.jpg` removed). All Roboto DOCX on hand (46, 52, 53, 55, 56, 57, 58) are now at 10 pt. Next: 43 and 54 need DOCX; 42, 44, 45, 47, 48, 49, 50, 51 need Roboto finals or a rebuild; 62–70 first retrofit; the 24 older-page studies.
 - v1.72 (2026-10-03): Study 43 rebuilt in Roboto at 10 pt on the current page from the publisher’s newest DOCX (Plex Serif master; no 'does not assign' lines) and approved Rule 19 wording. Rule 19: every "finished work" / "shared ground" place replaced (Introduction, Section 2, Section 10 opening, Key Distinctions, Study Outline and Teaching Outline bullets) with "Salvation is always by faith, never by merit; the content of faith is what God revealed within each program" and the Prophecy-saints/Body contrast; Section 10 retitled "Faith Without Merit, Distinct Messages"; "Faith without merit ≠ the same gospel". Rule 18: full standing sentence added after the "to the Jew first" paragraph (§5) and the short form after the Acts 13 paragraph (§9); Acts 28 "not abolition and not a transfer" in §5. "Acts Overlap Theology supplies the controls" and two "framework" labels reworded. Structure to the Study 52 standard: bulleted What You Will Learn with the lead-in (new bullets drafted from the text, approved), seven inline callouts reduced to five boxed (Content and Righteousness demoted to body paragraphs with bold run-in leads), Roman-numeral Teaching Outline renumbered. 17 pages (was 20). `site.js` 43:17; page-count text 20→17; previews 2, 3 and 8 (third moved from page 10 to 8: the audience section; `study-43-page-10.jpg` removed). Imprint orphan fixed with layout-only keep-together. Next: Study 54 (DOCX received); 42, 44, 45, 47, 48, 49, 50, 51 need Roboto finals or a rebuild; 62–70 first retrofit; the 24 older-page studies.
 - v1.73 (2026-10-03): Study 54 rebuilt in Roboto at 10 pt on the current page from the publisher's REVISED DOCX, 17 pages (cover plus 16). Rule 19: seven shared-ground lines reworded (Introduction, 3.8, 5.4, Key Distinctions, Romans 3:29–30 note, final comparison, Guided Further Study); Body-specific 'finished work' kept. Romans 11:6 boundaries and triad added (Group 1); Galatians 3 sentence added (5.4); Romans 9:32 callout demoted to body (5 callouts); three What You Will Learn bullets reworded to process; previews 2/3/5 re-rendered; site.js 54:17; page-count text 17.
+- v1.74 (2026-10-03): Study 42 rebuilt in Roboto at 10 pt on the current page from the 23 Sept master, 17 pages (cover plus 16). Reader-facing: three 'framework'/'Acts Overlap Theology' wordings converted; Acts 28 national judicial suspension added; Rule 18 full paragraph and short form added (Section 6); Rule 11 sentence added (Acts 19:1–7); anchor lines added for Hebrews 6:1–2 (Hebrews sentence), 1 Peter 3:20–21 and Colossians 2:11–12 (letter form); Vocabulary Control demoted to body (5 callouts); What You Will Learn rewritten as six process bullets; previews 2/3/6 re-rendered; site.js 42:17; page-count text 17.

diff --git a/controlling-documents/Digital_Studies_PAM_Audit_v1.168.md b/controlling-documents/Digital_Studies_PAM_Audit_v1.168.md
@@ -397,3 +397,4 @@ Study 15 PDF not yet supplied. Typography: none of Studies 2, 3, 6, 8 is in EB G
 - v1.165 (2026-10-03): Study 58 rebuilt at 10 pt, 19 pages (see Retrofit Plan v1.71).
 - v1.166 (2026-10-03): Study 43 rebuilt in Roboto at 10 pt, 17 pages (see Retrofit Plan v1.72).
 - v1.167 (2026-10-03): Study 54 rebuilt in Roboto at 10 pt, 17 pages (see Retrofit Plan v1.73).
+- v1.168 (2026-10-03): Study 42 rebuilt in Roboto at 10 pt, 17 pages (see Retrofit Plan v1.74).
